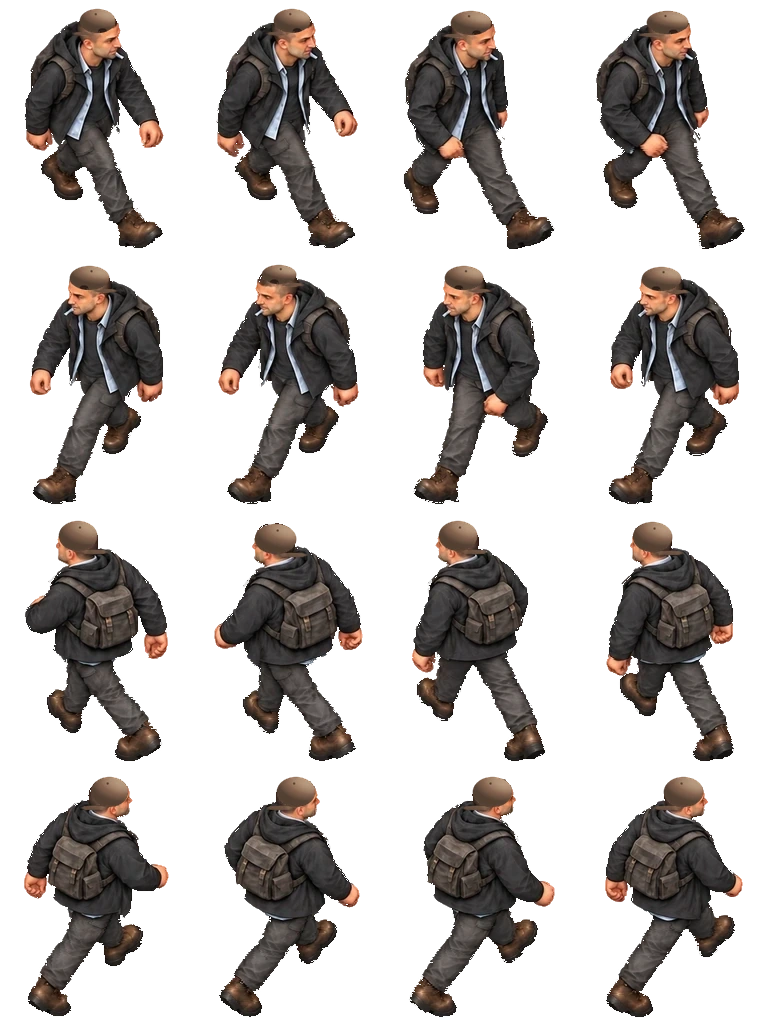
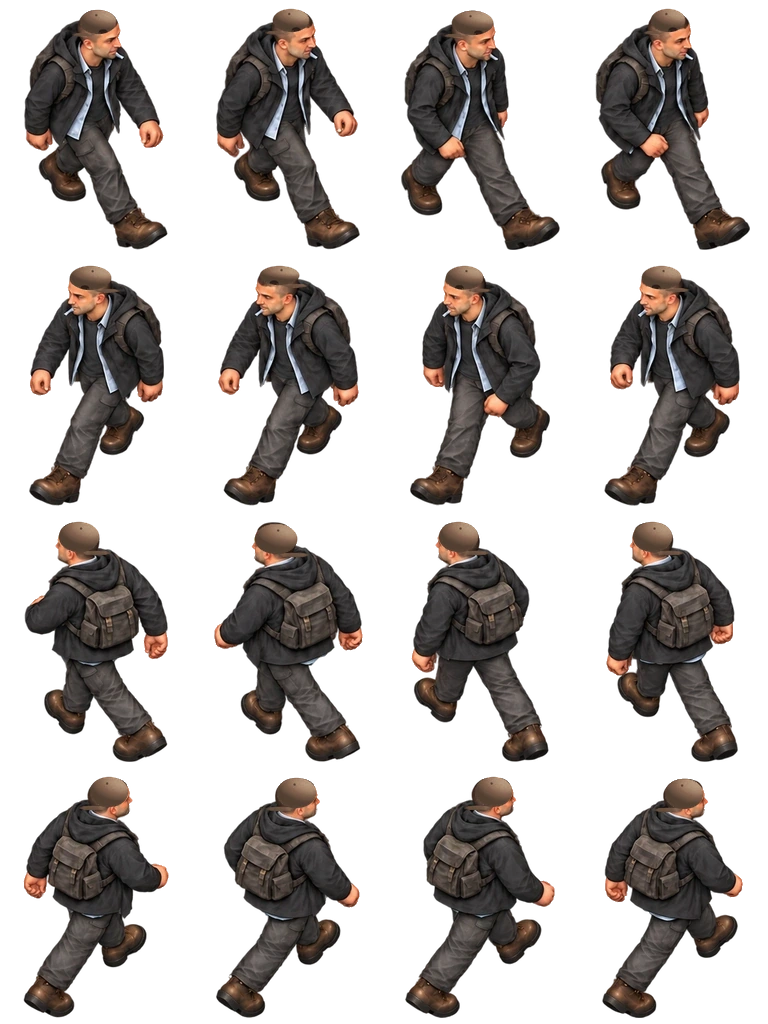
deploy v5.0.6

diff --git a/app.js b/app.js
@@ -106,7 +106,7 @@ function partyDock(){
  const items=[[state.lead,state.hp+' / 40'],[state.lead==='berkay'?'uygar':'berkay',p.withGroup?'FOLLOWING':'WITH PUKIE'],['pukie',p.withGroup?'STRESS '+p.stress+'/6':'WAITING']];
  return `<div class="party-dock" role="group" aria-label="Travelling party">${items.map(([id,status])=>`<button class="party-chip" data-ui="party" aria-label="Open party details for ${id==='pukie'?'Pukie':BROTHERS[id].name}">${partyPortrait(id)}<span>${id==='pukie'?'Pukie':BROTHERS[id].name}<small>${esc(status)}</small></span></button>`).join('')}</div>`;
 }
-function header(){return `<header class="topbar"><button class="brand" data-ui="home" aria-label="Age of Abundance home"><span class="brand-mark">${icon('ledger')}</span><span>AGE OF ABUNDANCE<small>A FINANCIAL WASTELAND RPG</small></span></button><div class="top-center"><span class="status-dot"></span>${state?'CAMPAIGN IN PROGRESS':'THE MERIDIAN BASIN'}<span class="separator">/</span> YEAR 83 A.S.</div><div class="header-tools"><button class="icon-button" data-ui="sound" title="${sound?'Mute':'Enable interface sound'}" aria-label="${sound?'Mute':'Enable interface sound'}">${icon(sound?'volume':'muted')}</button><button class="icon-button" data-ui="settings" title="Settings and saves" aria-label="Settings and saves">${icon('settings')}</button>${state?`<button class="save-button" data-ui="save" aria-label="Quick save">${icon('save')}<span class="save-label-full">Quick save</span><span class="save-label-short">Save</span></button>`:`<span class="edition">BROTHERS EDITION <b>5.0.5</b></span>`}</div></header>`;}
+function header(){return `<header class="topbar"><button class="brand" data-ui="home" aria-label="Age of Abundance home"><span class="brand-mark">${icon('ledger')}</span><span>AGE OF ABUNDANCE<small>A FINANCIAL WASTELAND RPG</small></span></button><div class="top-center"><span class="status-dot"></span>${state?'CAMPAIGN IN PROGRESS':'THE MERIDIAN BASIN'}<span class="separator">/</span> YEAR 83 A.S.</div><div class="header-tools"><button class="icon-button" data-ui="sound" title="${sound?'Mute':'Enable interface sound'}" aria-label="${sound?'Mute':'Enable interface sound'}">${icon(sound?'volume':'muted')}</button><button class="icon-button" data-ui="settings" title="Settings and saves" aria-label="Settings and saves">${icon('settings')}</button>${state?`<button class="save-button" data-ui="save" aria-label="Quick save">${icon('save')}<span class="save-label-full">Quick save</span><span class="save-label-short">Save</span></button>`:`<span class="edition">BROTHERS EDITION <b>5.0.6</b></span>`}</div></header>`;}
 function nav(){return `<nav class="main-nav" aria-label="Game sections"><div class="nav-tabs">${[['scene','compass','Explore','Explore'],['map','map','World map','Map'],['journal','ledger','Journal','Journal'],['market','exchange','Market','Market'],['character','person','Character','Hero']].map(([id,ic,label,short])=>`<button data-view="${id}" class="${view===id?'active':''}" ${state?.combat&&id!=='scene'?'disabled':''} aria-label="${label}">${icon(ic)}<span class="nav-full">${label}</span><span class="nav-short">${short}</span>${id==='character'&&state?.points?`<b class="badge">${state.points}</b>`:''}</button>`).join('')}</div><span class="turn-tag">${icon('clock')} ${state?`SETTLEMENT ${String(state.turn).padStart(2,'0')}`:'TIME MOVES WHEN YOU DO'}</span></nav>`;}
 function landing(){return `<main class="landing"><div class="landing-scene"><img class="scene-img" src="assets/party-camp.webp" alt="Uygar, Berkay and Pukie travelling together through the Meridian Basin" fetchpriority="high"><div class="landing-shade"></div><div class="landing-top"><span class="eyebrow"><i></i> EVERYONE OWES SOMETHING.</span><span class="coords">34° 08′ N &nbsp; / &nbsp; 117° 17′ W</span></div><div class="landing-copy"><span class="eyebrow gold">AN ISOMETRIC RPG ABOUT POWER, DEBT & CONSEQUENCE</span><h1>AGE OF<br><em>ABUNDANCE</em></h1><p>Two brothers. One small dog.<br>A debt that could swallow the world.</p><div class="landing-cta"><button class="primary" data-ui="${saved?'continue':'new'}">${icon(saved?'arrow':'compass')}${saved?'Continue your story':'Enter the wasteland'}${icon('arrow')}</button>${saved?'<button class="text-button" data-ui="new">New campaign</button>':'<button class="text-button" data-ui="guide">How to play '+icon('chevron')+'</button>'}</div><div class="landing-facts"><span>03 ACTS</span><i></i><span>07 ENDINGS</span><i></i><span>YOUR FAMILY MATTERS</span></div></div><div class="scene-stamp"><span>01 / THE FRINGE</span><strong>Par Value</strong><small>Where your debt begins.</small></div></div><div class="landing-bottom"><div><span class="eyebrow">THE PREMISE</span><h2>Nothing is free. <br>Some things are priceless.</h2></div><p>Uygar understands the ledger. Berkay knows how to keep a broken world running. The old machines still promise abundance; the claims on their output manufacture scarcity. Together with Pukie, they follow a forged family debt from the ruins of Par Value to the machinery that owns tomorrow. Choose either brother to lead. Protect the family you cannot put a price on.</p><div class="landing-note">${icon('shield')}<span>Two brothers. Three backgrounds.<br>Single-player • No in-game purchases.</span></div></div></main>`;}
 function stats(){return `<section class="resource-strip" aria-label="Player resources"><div class="resource">${icon('person')}<span><small>${esc(ROLES[state.role].name)}</small><strong>${esc(state.name)}</strong></span><b class="level">LV ${state.level}</b></div><div class="resource health">${icon('health')}<span><small>VITALITY</small><strong>${state.hp}<em> / 40</em></strong></span><div class="mini-meter"><i style="width:${state.hp/40*100}%"></i></div></div><div class="resource">${icon('coin')}<span><small>LIQUID CAPITAL</small><strong>${state.cash.toLocaleString()} <em>CR</em></strong></span></div><div class="resource supplies">${STAPLES.map(k=>{const v=ITEMS[k];return `<span title="${esc(v.desc)}">${icon(v.icon)}<b>${state.inventory[k]}</b><small>${v.name}</small></span>`;}).join('')}</div><div class="resource deadline">${icon(state.act===1?'clock':'key')}<span><small>${state.act===1?'COLLECTION IN':'SETTLEMENT KEYS'}</small><strong>${state.act===1?deadlineOf(state)-state.turn:keys(state)}<em> ${state.act===1?'TURNS':'/ 3'}</em></strong></span></div></section>`;}
@@ -179,7 +179,7 @@ function equipmentPanel(){
 }
 function characterView(){const person=BROTHERS[state.lead];return `<section class="page-heading"><span class="eyebrow">PERSONNEL FILE / ${ROLES[state.role].name.toUpperCase()}</span><div class="identity-heading">${coverPortrait(state.lead)}<div><h1>${esc(state.name)}</h1><span class="eyebrow gold">${esc(person.title)} · THE SELECTED BROTHER</span><p>${esc(person.text)}</p><p>${ROLES[state.role].text}</p></div></div></section>${partyPanel()}${equipmentPanel()}<div class="character-layout"><section class="panel skill-panel"><div class="section-eyebrow">${icon('star')} CAPABILITIES <b>${state.points} POINT${state.points===1?'':'S'} AVAILABLE</b></div><div class="level-progress"><strong>LEVEL ${state.level}</strong><span>${state.xp} / ${state.level*6} XP</span><div class="meter"><i style="width:${state.xp/(state.level*6)*100}%"></i></div></div>${Object.entries(SKILLS).map(([k,label])=>`<div class="skill-row"><span>${label}</span><div class="skill-pips">${Array.from({length:5},(_,i)=>`<i class="${i<state.skills[k]?'filled':''}"></i>`).join('')}</div><strong>${state.skills[k]}</strong><button class="skill-add" data-action="skill" data-arg="${k}" ${state.points<1||state.skills[k]>=5?'disabled':''} aria-label="Improve ${label}">+</button></div>`).join('')}<p class="small muted">Earn experience by advancing the story. Each level grants one skill point.</p></section><section class="panel"><div class="section-eyebrow">${icon('flag')} REPUTATION & SETTLEMENT KEYS</div>${[['directorate','Clearing Directorate','halden'],['float','Free Float','sera'],['reserve','Mutual Reserve','rusk']].map(([k,label,p])=>`<div class="faction-row">${portrait(p)}<div><strong>${label}</strong><small>${state.factions[k]?'Resolved: '+esc(state.factions[k]):'Unsettled'}</small></div><b>${state.reputation[k]>=0?'+':''}${state.reputation[k]}</b><span class="key-status ${state.factions[k]?'owned':''}" title="${state.factions[k]?'Key acquired':'Key not acquired'}">${icon('key')}</span></div>`).join('')}<div class="public-trust">${icon('person')} PUBLIC TRUST <strong>${state.reputation.public>=0?'+':''}${state.reputation.public}</strong></div></section><section class="panel inventory-panel"><div class="section-eyebrow">${icon('box')} SHARED FIELD SUPPLIES</div>${Object.entries(ITEMS).map(([k,v])=>`<div class="inventory-row">${icon(v.icon)}<span>${v.name}</span><strong>${state.inventory[k]}</strong></div>`).join('')}<button class="outline-button full" data-action="medkit" ${state.hp===40||state.inventory.medicine===0?'disabled':''}>Use medicine (+16 health) ${icon('health')}</button><p class="small muted">The brothers share a ration every four settlements; Pukie needs an extra every eight, or twelve after the refuge network. Without food, you lose health.</p></section></div>`;}
 function endingView(){const e=epilogue(state);return `<section class="ending"><img class="scene-img" src="assets/${['death','receivership'].includes(state.ending)?'par-value':'clearing'}.webp" alt="The final settlement"><div class="ending-shade"></div><div class="ending-content"><span class="eyebrow gold">${['death','receivership'].includes(state.ending)?'ACCOUNT CLOSED':'THE FINAL CLEARING'}</span><h1>${e.title}</h1><p class="ending-lead">${e.text}</p><div class="ending-epilogues">${e.segments.map(x=>`<article><span class="eyebrow">${x.name}</span><p>${x.text}</p></article>`).join('')}</div><div class="ending-stats"><span>${state.turn} SETTLEMENTS</span><span>${state.choices.length} DEFINING CHOICES</span><span>${keys(state)} KEYS</span></div><div class="ending-buttons"><button class="primary" data-ui="new">Begin another story ${icon('arrow')}</button><button class="outline-button" data-ui="export">Export this record ${icon('download')}</button></div></div></section>`;}
-function footer(){return `<footer class="footer"><span><i></i> ${state?'ALL VALUES ARE FICTIONAL':'NO REAL ASSETS WERE LIQUIDATED IN THE MAKING OF THIS GAME'}</span><button data-ui="guide" class="footer-guide" aria-label="Open the field manual">FIELD MANUAL ${icon('info')}</button><span>AGE OF ABUNDANCE <b> / </b> V5.0.5</span></footer>`;}
+function footer(){return `<footer class="footer"><span><i></i> ${state?'ALL VALUES ARE FICTIONAL':'NO REAL ASSETS WERE LIQUIDATED IN THE MAKING OF THIS GAME'}</span><button data-ui="guide" class="footer-guide" aria-label="Open the field manual">FIELD MANUAL ${icon('info')}</button><span>AGE OF ABUNDANCE <b> / </b> V5.0.6</span></footer>`;}
 function modalShell(title,body,cls=''){return `<div class="modal-backdrop" data-backdrop="close"><section class="modal ${cls}" role="dialog" aria-modal="true" aria-labelledby="modal-title"><button class="modal-close icon-button" data-ui="close" aria-label="Close dialog">${icon('close')}</button><div class="modal-inner"><h2 id="modal-title">${title}</h2>${body}</div></section></div>`;}
 function modalHTML(){if(!modal)return '';
  if(modal.type==='create')return modalShell('Who signs the ledger?',`<p class="modal-intro">Choose the brother you lead. Uygar, Berkay and Pukie begin this journey together.</p><div class="brother-grid">${Object.entries(BROTHERS).map(([id,r])=>`<button class="brother-card ${id===selectedLead?'selected':''}" data-lead="${id}" aria-pressed="${id===selectedLead}">${coverPortrait(id)}<span class="eyebrow gold">${esc(r.title)}</span><h3>${esc(r.name)}</h3><p class="brother-bio">${esc(r.text)}</p><p class="capacity-preview">${packCapacity(id)} PERSONAL GEAR SLOTS${id==='berkay'?' · MINIMALIST':''}</p><span class="role-select">${id===selectedLead?icon('check')+' LEADING THE FAMILY':'CHOOSE '+esc(r.name).toUpperCase()}</span></button>`).join('')}</div><div class="family-promise">${partyPortrait('pukie')}<p><strong>Pukie travels with both brothers.</strong> She notices what people miss, needs care, and cannot enter every place. Your brother can stay with her while you go inside.</p></div><h3>Choose your experience</h3><p class="small muted">Your background shapes starting skills; both brothers retain their own history.</p><div class="role-grid">${Object.entries(ROLES).map(([id,r])=>`<button class="role-card ${id===selectedRole?'selected':''}" data-role="${id}" aria-pressed="${id===selectedRole}">${icon(r.icon)}<h3>${r.name}</h3><em>${r.tag}</em><p>${r.text}</p><div>${Object.entries(r.skills).filter(([,n])=>n>=3).map(([k,n])=>`<span>${SKILLS[k]} <b>${n}</b></span>`).join('')}</div><span class="role-select">${id===selectedRole?icon('check')+' SELECTED':'CHOOSE BACKGROUND'}</span></button>`).join('')}</div><h3>Choose a difficulty</h3><p class="small muted">This can only be set at the start of a campaign. It changes the collectors’ clock, prices, aim and margin calls — not the story’s facts.</p><div class="role-grid difficulty-grid">${Object.values(DIFFICULTY).map(d=>`<button class="role-card ${d.id===selectedDifficulty?'selected':''}" data-difficulty="${d.id}" aria-pressed="${d.id===selectedDifficulty}"><h3>${d.name}</h3><em>${d.tag}</em><p>${d.detail}</p><span class="role-select">${d.id===selectedDifficulty?icon('check')+' SELECTED':'CHOOSE '+d.name.toUpperCase()}</span></button>`).join('')}</div><div class="modal-bottom"><span class="small muted">Three acts. Five endings. A family worth protecting.</span><button class="primary" data-ui="start">Begin as ${BROTHERS[selectedLead].name} ${icon('arrow')}</button></div>`,'wide');

diff --git a/world.js b/world.js
@@ -10,6 +10,26 @@ let metadataPromise;
 export function resetWorldMemory(){memories.clear();}
 function loadImage(name){if(!imageCache.has(name)){imageCache.set(name,new Promise((resolve,reject)=>{const i=new Image();i.onload=()=>resolve(i);i.onerror=()=>{imageCache.delete(name);reject(new Error(`Could not load ${name}`));};i.src=`assets/${name}.webp`;}));}return imageCache.get(name);}
 function loadMetadata(){return metadataPromise??=fetch('assets/sprite-frames.json').then(r=>{if(!r.ok)throw Error('Sprite data unavailable');return r.json();}).catch(e=>{metadataPromise=null;throw e;});}
+function annotateFootPads(meta,atlases){
+ const canvas=document.createElement('canvas'),ctx=canvas.getContext('2d',{willReadFrequently:true});
+ for(const [name,image] of Object.entries(atlases)){
+  const pack=meta[name];if(!pack?.frames||!image)continue;
+  for(const frame of pack.frames){
+   const w=frame.w,h=frame.h;
+   if(canvas.width!==w||canvas.height!==h){canvas.width=w;canvas.height=h;}
+   ctx.clearRect(0,0,w,h);
+   ctx.drawImage(image,frame.x,frame.y,w,h,0,0,w,h);
+   const data=ctx.getImageData(0,0,w,h).data,b=frame.bounds||{x:0,y:0,w,h};
+   let foot=-1;
+   for(let y=h-1;y>=0;y--){
+    for(let x=0;x<w;x++)if(data[(y*w+x)*4+3]>80){foot=y;break;}
+    if(foot>=0)break;
+   }
+   frame.footPad=foot<0?0:(b.y+b.h-1)-foot;
+  }
+ }
+}
+
 const clamp=(v,a,b)=>Math.max(a,Math.min(b,v));
 function rounded(ctx,x,y,w,h,r=5){ctx.beginPath();ctx.moveTo(x+r,y);ctx.arcTo(x+w,y,x+w,y+h,r);ctx.arcTo(x+w,y+h,x,y+h,r);ctx.arcTo(x,y+h,x,y,r);ctx.arcTo(x,y,x+w,y,r);ctx.closePath();}
 function polygon(ctx,points){ctx.beginPath();points.forEach(([x,y],i)=>i?ctx.lineTo(x,y):ctx.moveTo(x,y));ctx.closePath();}
@@ -29,7 +49,7 @@ export class IsometricWorld {
  this.actors.forEach(a=>this.snap(a));separateCrowd(this.actors,this.grid,46);this.player.speed*=this.weather.speed;this.partyActors().forEach(a=>a.speed*=this.weather.speed);
  this.bind();this.resize();this.root.querySelector('[data-world="names"]')?.setAttribute('aria-pressed',String(this.showNames));
  this.headingTimer=setTimeout(()=>{if(!this.destroyed)this.root.querySelector('.world-heading')?.classList.add('is-compact');},3400);
- const leadAtlas=equipmentAtlas(state,state.lead);const brotherAtlas=this.companion?equipmentAtlas(state,this.companion.person):null;const need=[leadAtlas,'npc-walk'];if(brotherAtlas&&!need.includes(brotherAtlas))need.push(brotherAtlas);if(this.dog)need.push('pukie-walk');if(this.actors.some(a=>a.atlas==='npc-workers'))need.push('npc-workers');Promise.all([loadImage(this.scene.asset),loadMetadata(),...need.map(loadImage)]).then(async ([background,meta,...loaded])=>{if(this.destroyed)return;const atlases={};need.forEach((name,i)=>{atlases[name]=loaded[i];});const rigAtlases={};await Promise.all(need.map(async name=>{const rig=meta[name]?.rig;if(rig)rigAtlases[rig.asset]=await loadImage(rig.asset);}));if(this.destroyed)return;Object.assign(this,{background,hero:atlases[leadAtlas],npcs:atlases['npc-walk'],workers:atlases['npc-workers']||atlases['npc-walk'],rigAtlases,atlases,meta,ready:true});this.bakeOccluders();this.bakeMinimapGround();this.weatherTiles=new Map();root.querySelector('.world-loading')?.remove();this.cameraDirty=true;this.draw();this.wake();}).catch(()=>{if(!this.destroyed){const el=root.querySelector('.world-loading');if(el)el.textContent='Artwork could not load. Refresh to retry. Campaign actions below remain available.';}});
+ const leadAtlas=equipmentAtlas(state,state.lead);const brotherAtlas=this.companion?equipmentAtlas(state,this.companion.person):null;const need=[leadAtlas,'npc-walk'];if(brotherAtlas&&!need.includes(brotherAtlas))need.push(brotherAtlas);if(this.dog)need.push('pukie-walk');if(this.actors.some(a=>a.atlas==='npc-workers'))need.push('npc-workers');Promise.all([loadImage(this.scene.asset),loadMetadata(),...need.map(loadImage)]).then(async ([background,meta,...loaded])=>{if(this.destroyed)return;const atlases={};need.forEach((name,i)=>{atlases[name]=loaded[i];});const rigAtlases={};await Promise.all(need.map(async name=>{const rig=meta[name]?.rig;if(rig)rigAtlases[rig.asset]=await loadImage(rig.asset);}));if(this.destroyed)return;annotateFootPads(meta,atlases);Object.assign(this,{background,hero:atlases[leadAtlas],npcs:atlases['npc-walk'],workers:atlases['npc-workers']||atlases['npc-walk'],rigAtlases,atlases,meta,ready:true});this.bakeOccluders();this.bakeMinimapGround();this.weatherTiles=new Map();root.querySelector('.world-loading')?.remove();this.cameraDirty=true;this.draw();this.wake();}).catch(()=>{if(!this.destroyed){const el=root.querySelector('.world-loading');if(el)el.textContent='Artwork could not load. Refresh to retry. Campaign actions below remain available.';}});
  }
  createParty(){
  // The brother is the dog's guardian; Pukie never accepts player movement orders.
@@ -225,17 +245,39 @@ export class IsometricWorld {
  ctx.fillStyle='#716b52';ctx.beginPath();ctx.ellipse(x,y,14,6,0,0,Math.PI*2);ctx.fill();ctx.fillStyle='#7ca9a2';ctx.beginPath();ctx.ellipse(x,y-2,10,3.5,0,0,Math.PI*2);ctx.fill();
  ctx.font='bold 10px Arial';ctx.textAlign='center';ctx.fillStyle='#e0d6ad';ctx.fillText('WAITING POINT',this.companion.x,this.companion.y+32);ctx.restore();
  }
+ drawGroundShadow(a){
+ const ctx=this.ctx,dog=!!a.dog,rx=dog?10:15.5,ry=dog?3.2:4.8,sx=dog?6:10,sy=dog?3.2:6;
+ // Scene sun is from the upper-left; building shadows fall down-right.
+ ctx.save();
+ ctx.fillStyle='rgba(7,9,7,.12)';
+ ctx.beginPath();ctx.ellipse(a.x+sx*.45,a.y+sy*.45,rx*1.55,ry*1.4,.28,0,Math.PI*2);ctx.fill();
+ ctx.fillStyle='rgba(6,8,6,.18)';
+ ctx.beginPath();ctx.ellipse(a.x+sx,a.y+sy,rx*1.12,ry*1.02,.32,0,Math.PI*2);ctx.fill();
+ ctx.fillStyle='rgba(5,7,5,.30)';
+ ctx.beginPath();ctx.ellipse(a.x+.8,a.y+.4,rx*1.08,ry*1.05,0,0,Math.PI*2);ctx.fill();
+ ctx.fillStyle='rgba(4,6,4,.50)';
+ ctx.beginPath();ctx.ellipse(a.x,a.y,rx*.82,ry*.8,0,0,Math.PI*2);ctx.fill();
+ ctx.restore();
+ }
+ drawSelectionMark(a){
+ const ctx=this.ctx,dog=!!a.dog;
+ ctx.save();
+ ctx.strokeStyle=a.enemy?'#e78e78':a.hero?'#d5e29e':a.party?'#91c5c0':(a.accent||'#edca7f');
+ ctx.lineWidth=1.1/this.scale;
+ ctx.beginPath();ctx.ellipse(a.x,a.y,dog?13:17.5,dog?4:5.4,0,0,Math.PI*2);ctx.stroke();
+ ctx.restore();
+ }
  drawActor(a){
  const ctx=this.ctx,pos=this.screenPoint(a);if(pos.x< -100||pos.x>this.width+100||pos.y< -120||pos.y>this.height+140)return;
- const selected=a.hero||a===this.hover||a===this.target?.actor||a.party||a.enemy;
- ctx.save();ctx.fillStyle='rgba(13,15,10,.36)';ctx.beginPath();ctx.ellipse(a.x,a.y+1,a.dog?11:17,a.dog?3:4.5,-.18,0,Math.PI*2);ctx.fill();
- if(selected||a.location){ctx.strokeStyle=a.enemy?'#e78e78':a.hero?'#d5e29e':a.party?'#91c5c0':(a.accent||'#edca7f');ctx.lineWidth=1.5/this.scale;ctx.beginPath();ctx.ellipse(a.x,a.y,a.dog?16:22,a.dog?6:9,0,0,Math.PI*2);ctx.stroke();}
+ this.drawGroundShadow(a);
+ if(a===this.hover||a===this.target?.actor||(a.enemy&&this.state.combat))this.drawSelectionMark(a);
  const gait=gaitPose(a,this.reduced),frame=gait.frame,atlas=a.atlas||(a.hero?equipmentAtlas(this.state,this.state.lead):'npc-walk'),directional=a.hero||a.party,row=directional?a.direction:(a.sprite??0),meta=this.meta[atlas]||this.meta[equipmentAtlas(this.state,this.state.lead)],rect=meta.frames[row*4+frame];
  const drawH=a.dog?40:a.hero||a.party?102:a.enemy?107:(a.stature||99),pose=spritePose(rect,drawH);
  const mirror=!directional&&(a.direction===0||a.direction===3);let ox=0,oy=0;
- if(!a.moving&&!this.reduced)oy+=Math.sin((this.time+(a.phase||0))*2.15)*0.8;
  if(this.combatFx){const f=this.combatFx;if(a.hero&&f.id==='attack'&&f.age<.38)ox=Math.sin(f.age/.38*Math.PI)*9;if(a.enemy&&f.id==='attack'&&f.age>.17&&f.age<.5&&f.hit>0)ox=Math.sin(f.age*40)*4;}
- ctx.translate(a.x+ox,a.y+oy);if(mirror)ctx.scale(-1,1);if(a.filter)ctx.filter=a.filter;const source=pose.source;ctx.drawImage(this.atlases[atlas]||(a.hero?this.hero:atlas==='npc-workers'?this.workers:this.npcs),source.x,source.y,source.w,source.h,-pose.width/2,-pose.height,pose.width,pose.height);if(a.look)this.drawEquipment(a,pose);if(a.filter)ctx.filter='none';ctx.restore();
+ const b=rect.bounds||{x:0,y:0,w:rect.w,h:rect.h},footShift=(rect.footPad||0)*pose.height/b.h;
+ ctx.save();
+ ctx.translate(a.x+ox,a.y+oy+footShift);if(mirror)ctx.scale(-1,1);if(a.filter)ctx.filter=a.filter;const source=pose.source;ctx.drawImage(this.atlases[atlas]||(a.hero?this.hero:atlas==='npc-workers'?this.workers:this.npcs),source.x,source.y,source.w,source.h,-pose.width/2,-pose.height,pose.width,pose.height);if(a.look)this.drawEquipment(a,pose);if(a.filter)ctx.filter='none';ctx.restore();
  }
  drawRig(a,pose,gait,meta,row,frame){
  const ctx=this.ctx,rig=meta.rig,config=rig.rows[row],texture=this.rigAtlases[rig.asset],ref=meta.frames[config.reference],refPose=spritePose(ref,pose.height),bounds=ref.bounds;

diff --git a/index.html b/index.html
@@ -11,7 +11,7 @@
 <link rel="icon" type="image/svg+xml" href="assets/favicon.svg">
 <link rel="apple-touch-icon" sizes="180x180" href="assets/apple-touch-icon.png">
 <link rel="preload" as="image" href="assets/party-camp.webp">
-<link rel="stylesheet" href="style.css?v=5.0.5">
+<link rel="stylesheet" href="style.css?v=5.0.6">
 </head>
-<body><div id="rotate-prompt" role="dialog" aria-label="Please rotate your device"><div class="rotate-card"><strong>Please rotate your device</strong><p>Age of Abundance is designed to be played in portrait. Turn your phone upright to continue.</p></div></div><div id="app"></div><div id="toast" role="status" aria-live="polite"></div><input type="file" id="save-import" accept="application/json,.json" hidden><noscript>This game requires JavaScript. All progress is stored on your device.</noscript><script type="module" src="app.js?v=5.0.5"></script></body>
+<body><div id="rotate-prompt" role="dialog" aria-label="Please rotate your device"><div class="rotate-card"><strong>Please rotate your device</strong><p>Age of Abundance is designed to be played in portrait. Turn your phone upright to continue.</p></div></div><div id="app"></div><div id="toast" role="status" aria-live="polite"></div><input type="file" id="save-import" accept="application/json,.json" hidden><noscript>This game requires JavaScript. All progress is stored on your device.</noscript><script type="module" src="app.js?v=5.0.6"></script></body>
 </html>
